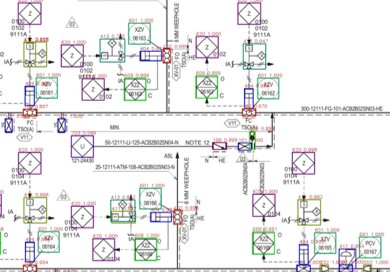
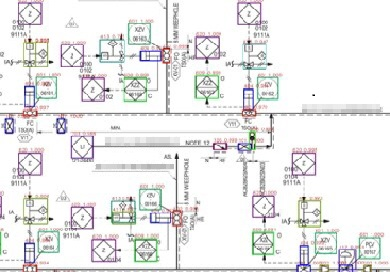
이미지 변경

diff --git a/_posts/pnid/2023-09-09-PnID(3).md b/_posts/pnid/2023-09-09-PnID(3).md
@@ -157,7 +157,7 @@ python -m torch.distributed.launch --nproc_per_node=4 --master_port=29700 soft_t
 python soft_techer_model/general_symbol_detector.py
 ```
 <div align="center">
-<img src="../../assets/images/2023-09-09-PnID(3)/ssl_result.jpg" alt="SSL_Result" />
+<img src="../../assets/images/2023-09-09-PnID(3)/ssl_result.jpg" alt="SSL_Result" style="zoom:180%;"/>
 </div>
 <center>[ 준지도 학습 모델 추론 결과 ]</center>
 
